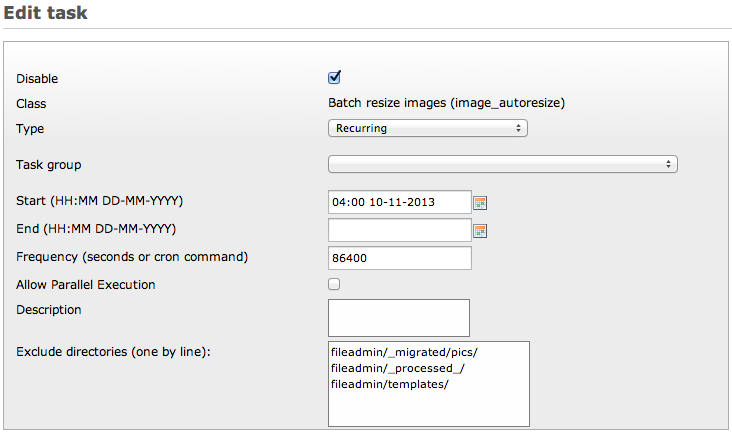
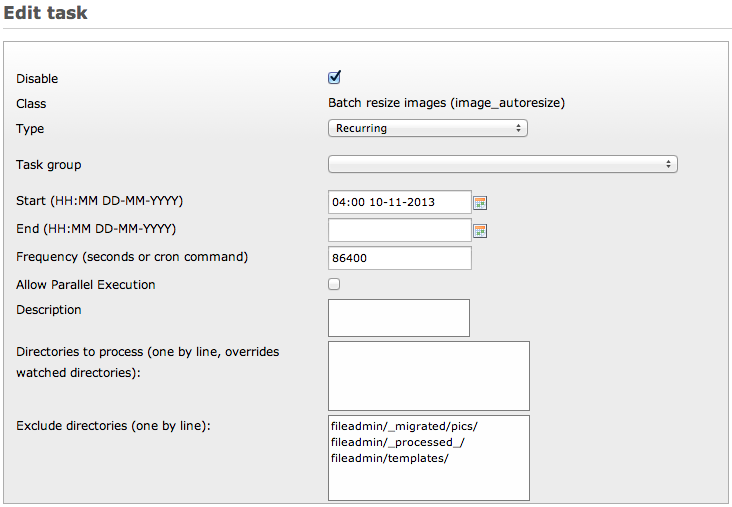
[TASK] Override processed directories in scheduler task

diff --git a/Classes/Task/BatchResizeAdditionalFieldProvider.php b/Classes/Task/BatchResizeAdditionalFieldProvider.php
@@ -43,6 +43,13 @@ use \TYPO3\CMS\Core\Utility\GeneralUtility;
 class BatchResizeAdditionalFieldProvider implements \TYPO3\CMS\Scheduler\AdditionalFieldProviderInterface {
 
 	/**
+	 * Default directories (to be processed)
+	 *
+	 * @var string
+	 */
+	protected $defaultDirectories = '';
+
+	/**
 	 * Default exclude directories
 	 *
 	 * @var string
@@ -50,7 +57,7 @@ class BatchResizeAdditionalFieldProvider implements \TYPO3\CMS\Scheduler\Additio
 	protected $defaultExcludeDirectories = '';
 
 	/**
-	 * Add a text area input field for excluding directories.
+	 * Adds text area input fields for choosing directories to be processed and excluding directories.
 	 *
 	 * @param array $taskInfo Reference to the array containing the info used in the add/edit form
 	 * @param object $task When editing, reference to the current task object. Null when adding.
@@ -59,6 +66,13 @@ class BatchResizeAdditionalFieldProvider implements \TYPO3\CMS\Scheduler\Additio
 	 */
 	public function getAdditionalFields(array &$taskInfo, $task, \TYPO3\CMS\Scheduler\Controller\SchedulerModuleController $parentObject) {
 		// Initialize selected fields
+		if (!isset($taskInfo['scheduler_batchResize_directories'])) {
+			$taskInfo['scheduler_batchResize_directories'] = $this->defaultDirectories;
+			if ($parentObject->CMD === 'edit') {
+				/** @var $task \Causal\ImageAutoresize\Task\BatchResizeTask */
+				$taskInfo['scheduler_batchResize_directories'] = $task->directories;
+			}
+		}
 		if (!isset($taskInfo['scheduler_batchResize_excludeDirectories'])) {
 			$taskInfo['scheduler_batchResize_excludeDirectories'] = $this->defaultExcludeDirectories;
 			if ($parentObject->CMD === 'edit') {
@@ -66,14 +80,30 @@ class BatchResizeAdditionalFieldProvider implements \TYPO3\CMS\Scheduler\Additio
 				$taskInfo['scheduler_batchResize_excludeDirectories'] = $task->excludeDirectories;
 			}
 		}
+
+		// Create HTML form fields
+		$additionalFields = array();
+
+		// Directories to be processed
+		$fieldName = 'tx_scheduler[scheduler_batchResize_directories]';
+		$fieldId = 'scheduler_batchResize_directories';
+		$fieldValue = trim($taskInfo['scheduler_batchResize_directories']);
+		$fieldHtml = '<textarea rows="4" cols="30" name="' . $fieldName . '" id="' . $fieldId . '">' . htmlspecialchars($fieldValue) . '</textarea>';
+		$additionalFields[$fieldId] = array(
+			'code' => $fieldHtml,
+			'label' => 'LLL:EXT:image_autoresize/Resources/Private/Language/locallang_mod.xlf:label.batchResize.directories',
+		);
+
+		// Directories to be excluded
 		$fieldName = 'tx_scheduler[scheduler_batchResize_excludeDirectories]';
 		$fieldId = 'scheduler_batchResize_excludeDirectories';
 		$fieldValue = trim($taskInfo['scheduler_batchResize_excludeDirectories']);
-		$fieldHtml = '<textarea rows="5" cols="30" name="' . $fieldName . '" id="' . $fieldId . '">' . htmlspecialchars($fieldValue) . '</textarea>';
+		$fieldHtml = '<textarea rows="4" cols="30" name="' . $fieldName . '" id="' . $fieldId . '">' . htmlspecialchars($fieldValue) . '</textarea>';
 		$additionalFields[$fieldId] = array(
 			'code' => $fieldHtml,
 			'label' => 'LLL:EXT:image_autoresize/Resources/Private/Language/locallang_mod.xlf:label.batchResize.excludeDirectories',
 		);
+
 		return $additionalFields;
 	}
 
@@ -88,6 +118,15 @@ class BatchResizeAdditionalFieldProvider implements \TYPO3\CMS\Scheduler\Additio
 		$result = TRUE;
 
 		// Check for valid directories
+		$directories = GeneralUtility::trimExplode(LF, $submittedData['scheduler_batchResize_directories'], TRUE);
+		foreach ($directories as $directory) {
+			$absoluteDirectory = GeneralUtility::getFileAbsFileName($directory);
+			if (!@is_dir($absoluteDirectory)) {
+				$result = FALSE;
+				$parentObject->addMessage(sprintf($GLOBALS['LANG']->sL('LLL:EXT:image_autoresize/Resources/Private/Language/locallang_mod.xlf:msg.invalidDirectories'), $directory), \TYPO3\CMS\Core\Messaging\FlashMessage::ERROR);
+			}
+		}
+
 		$directories = GeneralUtility::trimExplode(LF, $submittedData['scheduler_batchResize_excludeDirectories'], TRUE);
 		foreach ($directories as $directory) {
 			$absoluteDirectory = GeneralUtility::getFileAbsFileName($directory);
@@ -109,6 +148,7 @@ class BatchResizeAdditionalFieldProvider implements \TYPO3\CMS\Scheduler\Additio
 	 */
 	public function saveAdditionalFields(array $submittedData, \TYPO3\CMS\Scheduler\Task\AbstractTask $task) {
 		/** @var $task \Causal\ImageAutoresize\Task\BatchResizeTask */
+		$task->directories = trim($submittedData['scheduler_batchResize_directories']);
 		$task->excludeDirectories = trim($submittedData['scheduler_batchResize_excludeDirectories']);
 	}
 

diff --git a/Classes/Task/BatchResizeTask.php b/Classes/Task/BatchResizeTask.php
@@ -43,6 +43,13 @@ class BatchResizeTask extends \TYPO3\CMS\Scheduler\Task\AbstractTask {
 
 	/**
 	 * @var string
+	 * @additionalField
+	 */
+	public $directories = '';
+
+	/**
+	 * @var string
+	 * @additionalField
 	 */
 	public $excludeDirectories = '';
 
@@ -68,7 +75,12 @@ class BatchResizeTask extends \TYPO3\CMS\Scheduler\Task\AbstractTask {
 		$this->imageResizer = GeneralUtility::makeInstance('Causal\\ImageAutoresize\\Service\\ImageResizer');
 		$this->imageResizer->initializeRulesets($configuration);
 
-		$directories = $this->imageResizer->getAllDirectories();
+		if (empty($this->directories)) {
+			// Process watched directories
+			$directories = $this->imageResizer->getAllDirectories();
+		} else {
+			$directories = GeneralUtility::trimExplode(LF, $this->directories, TRUE);
+		}
 		$processedDirectories = array();
 
 		$success = TRUE;

diff --git a/Documentation/Introduction/Index.rst b/Documentation/Introduction/Index.rst
@@ -40,15 +40,23 @@ that weights only a few KB, why should we bother?
 Screenshots
 -----------
 
-General configuration settings
-^^^^^^^^^^^^^^^^^^^^^^^^^^^^^^
+Configuration settings
+^^^^^^^^^^^^^^^^^^^^^^
+
+The following two figures :ref:`figure-general-configuration` and :ref:`figure-general-options` show how an administrator
+may easily configure rules to resize uploaded images.
+
+.. _figure-general-configuration:
 
 .. figure:: ../Images/general-configuration.png
 	:alt: Overview of the general configuration panel
 
+	General configuration options to resize uploaded images
 
-General options
-^^^^^^^^^^^^^^^
+
+.. _figure-general-options:
 
 .. figure:: ../Images/general-options.png
 	:alt: Overview of the general options panel
+
+	Additional options and conversion of image format

diff --git a/Documentation/AdministratorManual/BatchProcessing/Index.rst b/Documentation/AdministratorManual/BatchProcessing/Index.rst
@@ -15,10 +15,14 @@ When installed in TYPO3 6.0 or above, this extension provides a scheduler task t
 the directories you normally watch for image upload (see :ref:`general-settings`).
 
 It is particularly useful if you let users upload images outside of TYPO3 (e.g., using FTP), thus bypassing upload
-post-processing to automatically resize them according to your rule sets:
+post-processing to automatically resize them according to your rule sets (see figure :ref:`myfigure`).
+
+.. _myfigure:
 
 .. figure:: ../../Images/scheduler-task.png
 	:alt: Scheduler task to batch resize images
+
+	Configuration form of a scheduler task to batch resize images
 
 .. important::
 	As the scheduler task will process each directory found in your rule sets, make sure to exclude directories you
